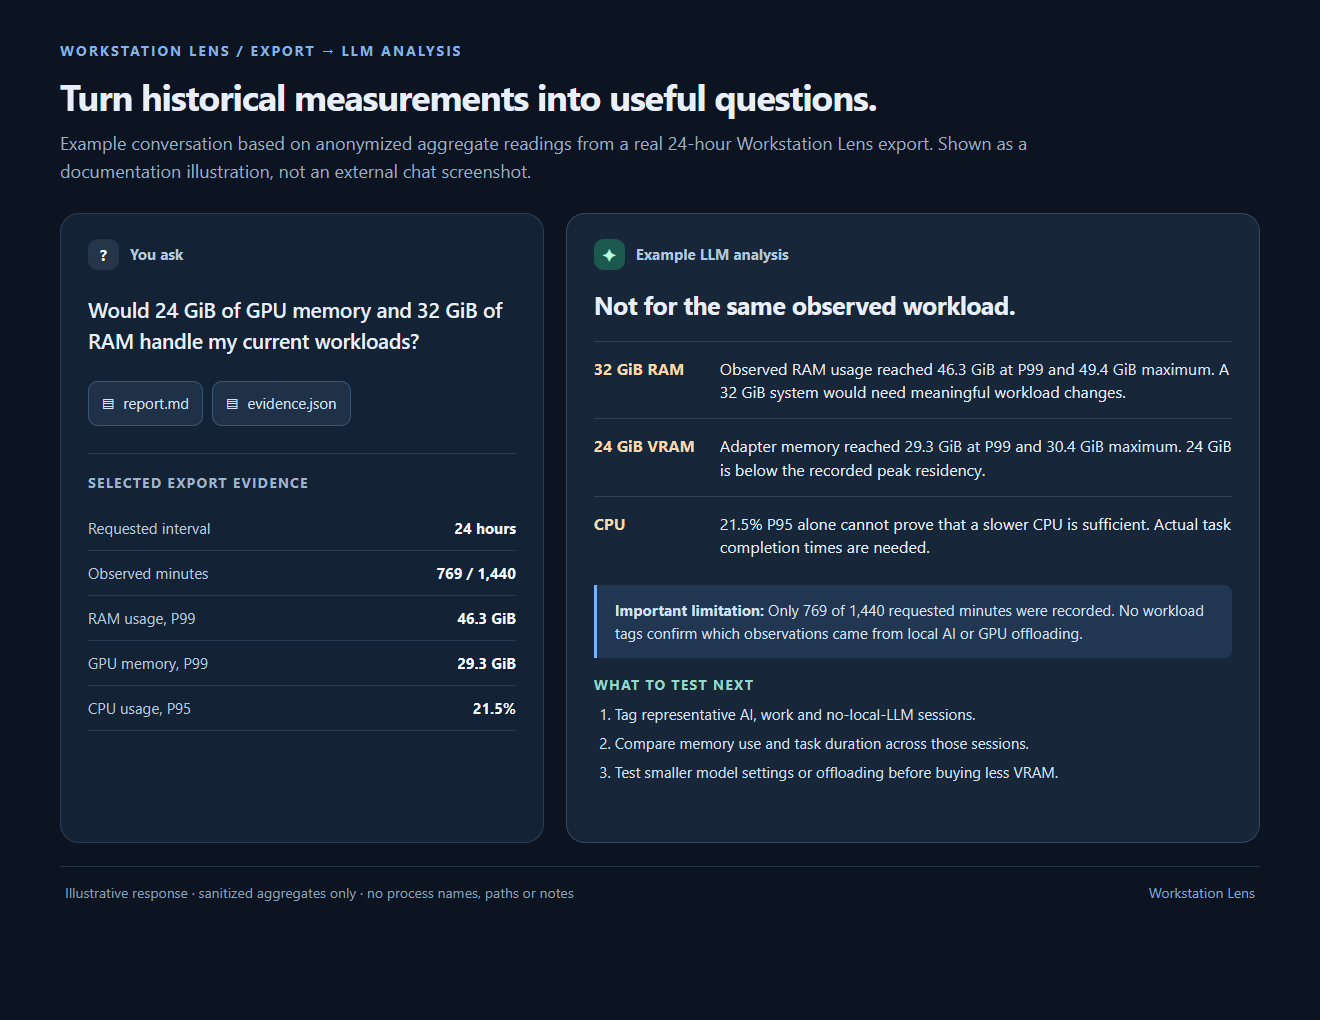
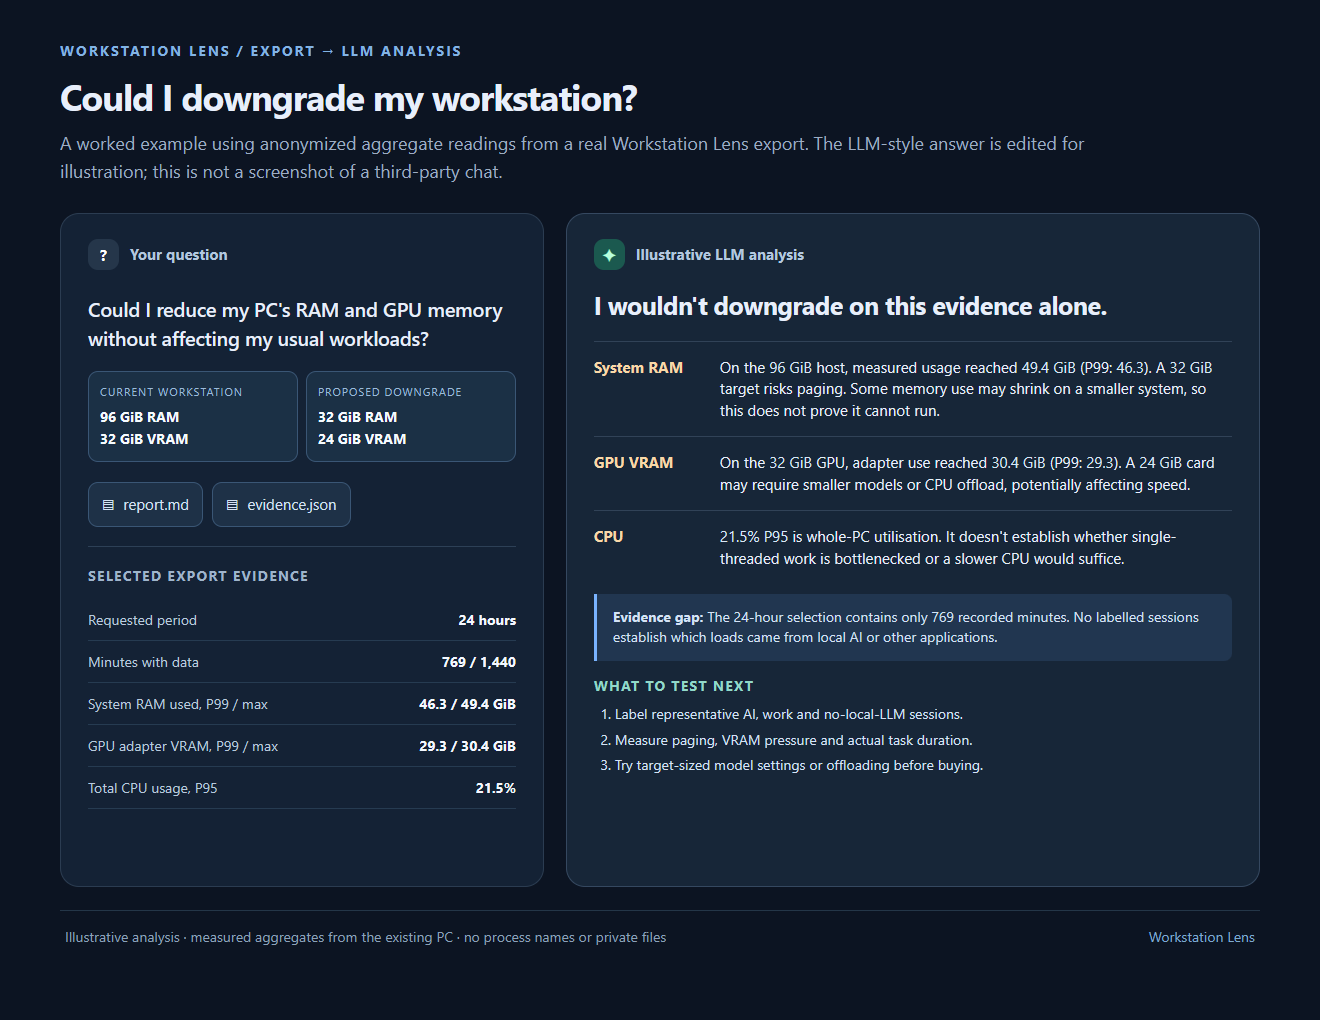
Clarify hardware downgrade example and analysis limits

diff --git a/README.md b/README.md
@@ -42,13 +42,13 @@ The ZIP contains four files:
 | `workstation-lens-records.csv` | Detailed records for Excel or your own analysis |
 | `README.txt` | Short guide to the files, columns and units |
 
-I usually start by attaching `report.md` and `evidence.json` to my LLM, with a specific question. For example:
+I usually start by attaching `report.md` and `evidence.json` to my LLM, with a specific question. For example, if I were considering downsizing a workstation:
 
-> Based on these measurements, where does my PC seem overprovisioned? Quote the numbers you used, distinguish observations from guesses, and tell me what I should benchmark before downgrading any hardware.
+> My current PC has 96 GiB RAM and 32 GiB GPU VRAM. Could a 32 GiB RAM / 24 GiB VRAM machine handle the same work? Use the measurements to explain the risks, but don't treat memory usage as a hard minimum requirement. Note missing observations and suggest what to benchmark before buying.
 
 ![Example analysis of a Workstation Lens export](docs/screenshots/llm-analysis-example.png)
 
-*Example LLM-style analysis using anonymized aggregates from a real local export. Recreated for documentation; not a screenshot of a third-party chat.*
+*Illustrative LLM-style analysis using anonymized measurements from a real local export. The 49.4 GiB peak was measured on the original 96 GiB RAM PC, not the proposed 32 GiB machine. Recreated for documentation; not a screenshot of a third-party chat.*
 
 The CSV contains machine, application and PID rows in one file; filter by `record_type`. Empty cells mean unavailable or not applicable, **not zero**.
 
